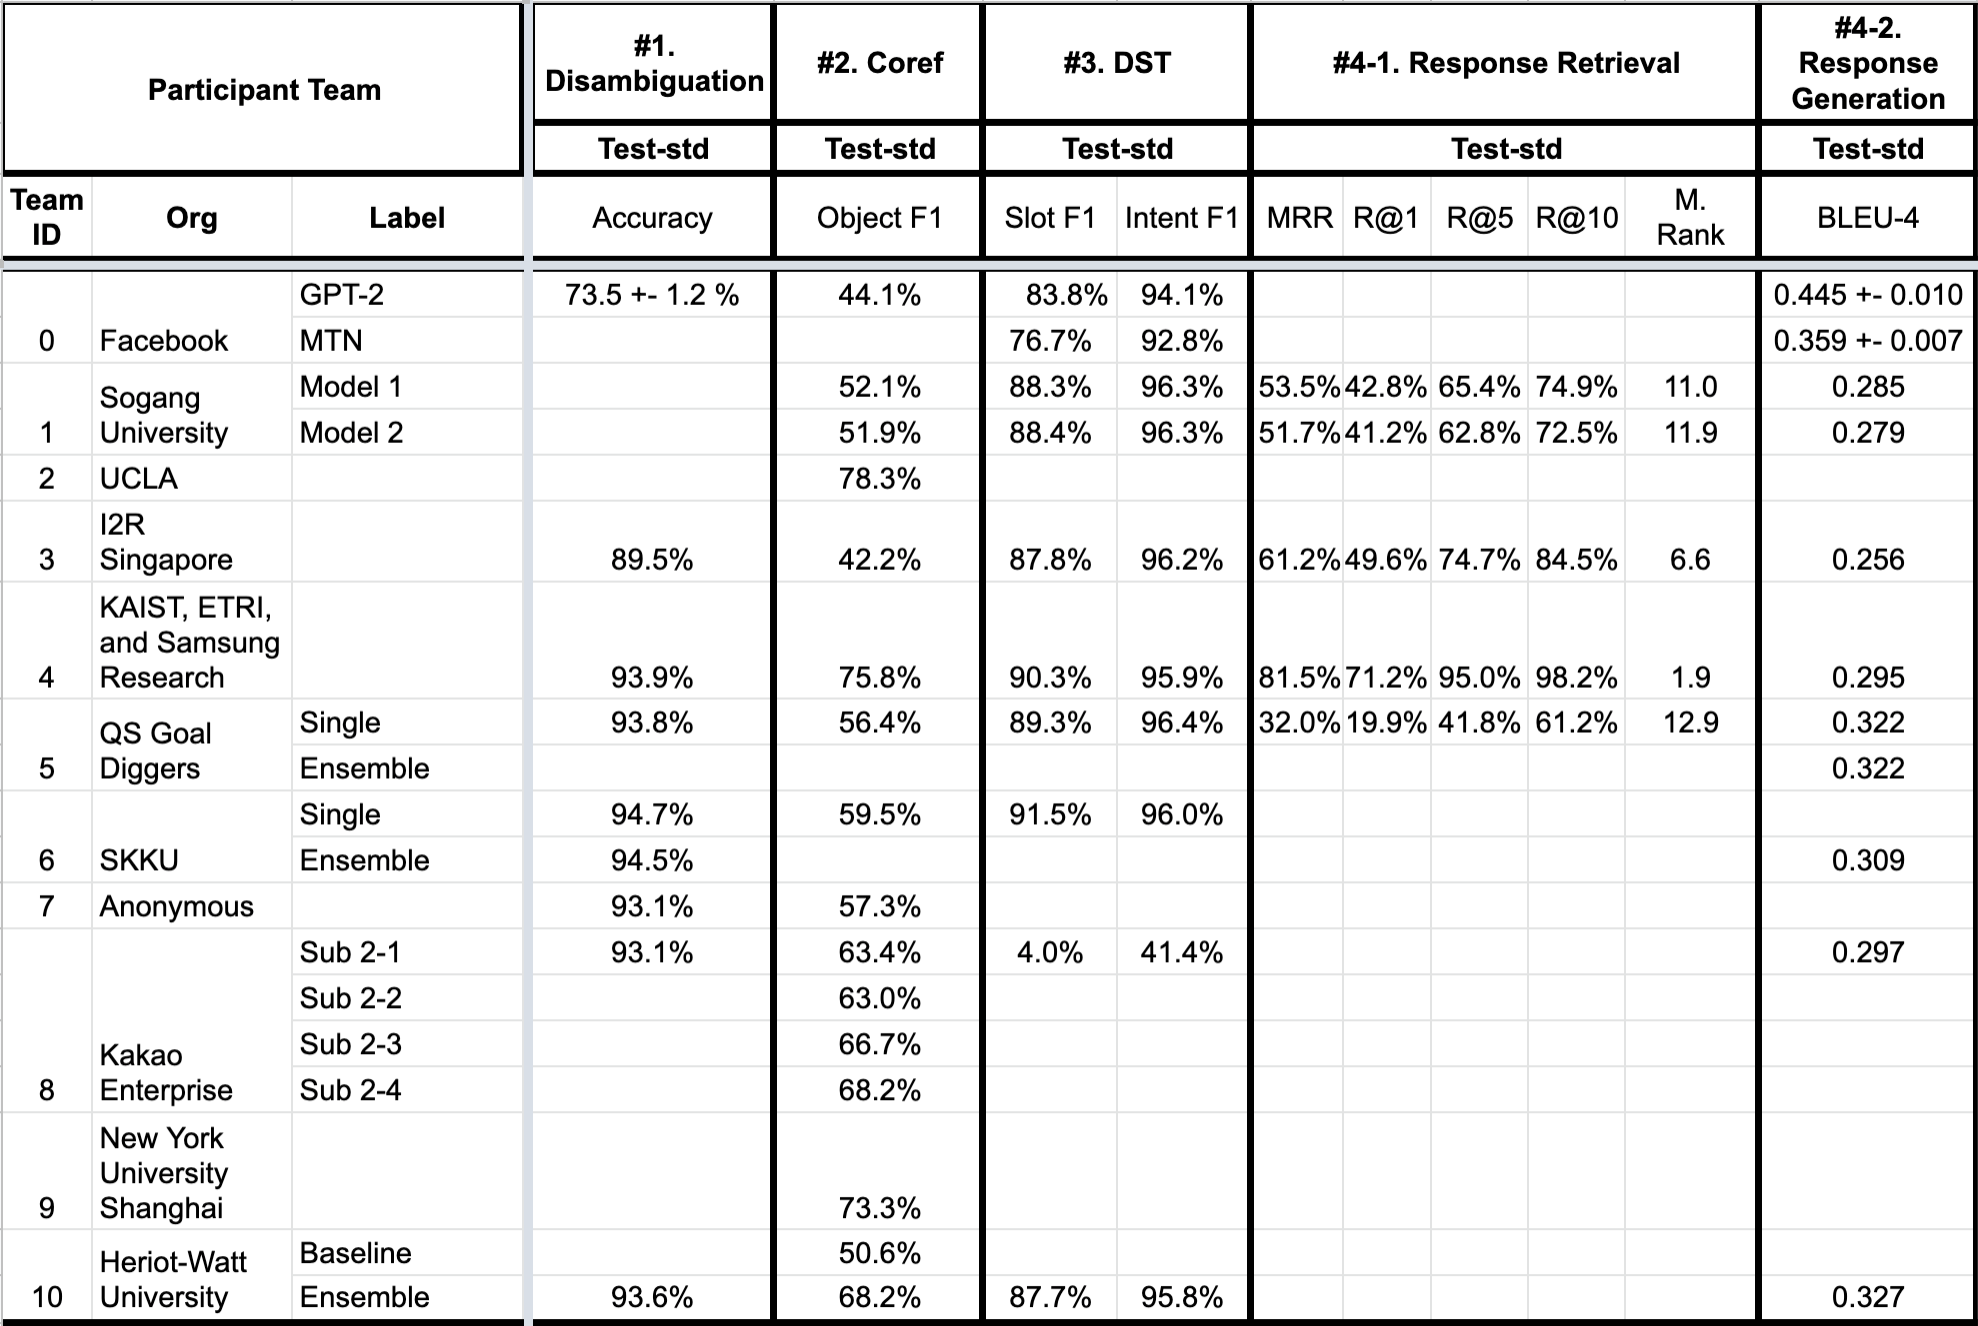
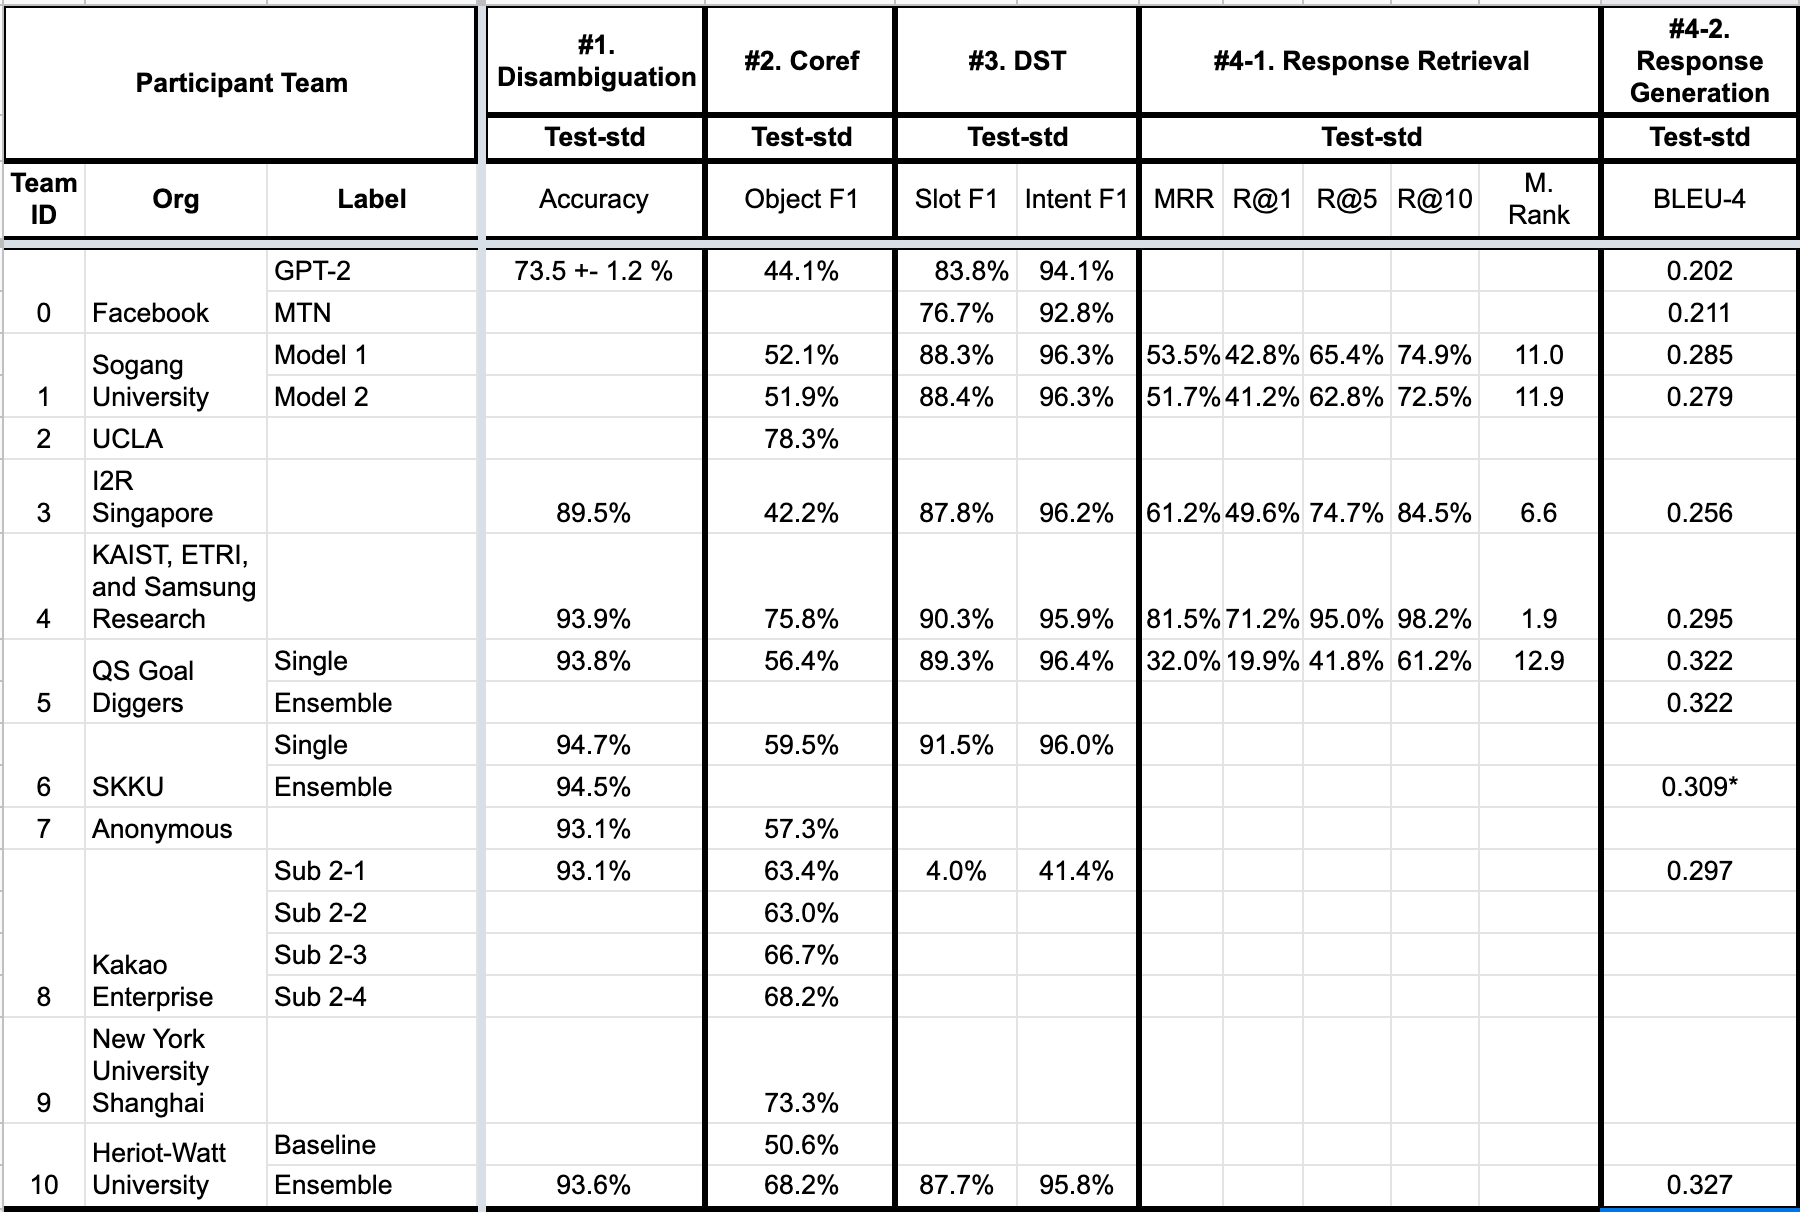
Fixes baseline results for GPT-2 and MTN

diff --git a/CHALLENGE_RESULTS.md b/CHALLENGE_RESULTS.md
@@ -10,7 +10,7 @@ We are excited to announce the results of the Situated and Interactive Multimoda
 | #4-1: Assistant Response Generation           | Team 5 (QS Goal Diggers), Team 10 (Heriot-Watt University) | Team 4 (KAIST, ETRI, Samsung Research), Team 8 (Kakao Enterprise)                                  |
 | #4-2: Assistant Response Retrieval            | Team 4 (KAIST, ETRI, Samsung Research)                      | Team 3 (I2R A-STAR)                                                                                |
 
-Overall, the track received 16 model entries across the world. Below are the full results as of Oct 25, 2021.
+Overall, the track received 16 model entries across the world. Below are the full results as of ~~Oct 25, 2021~~ Dec 16, 2021.
 
 <figure>
 <img src="./final_results.png" width="800" alt="Final Results of the SIMMC 2.0 Challenge" align="center"> 
